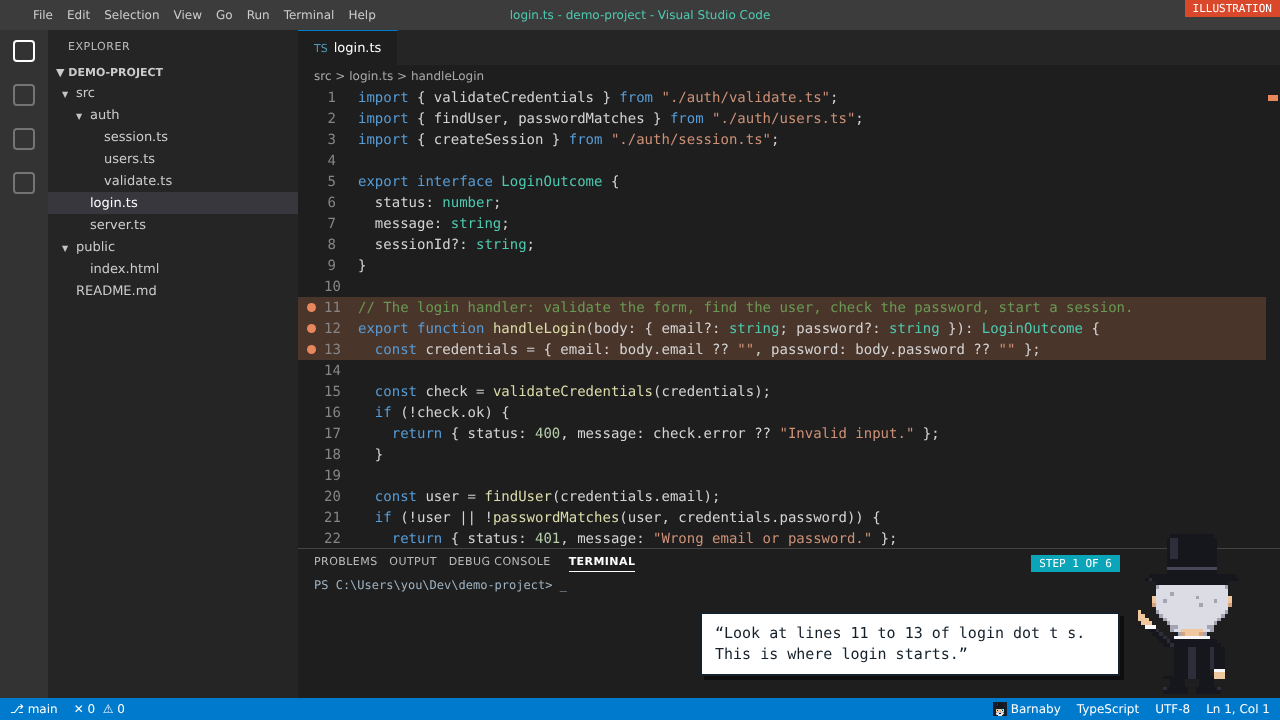
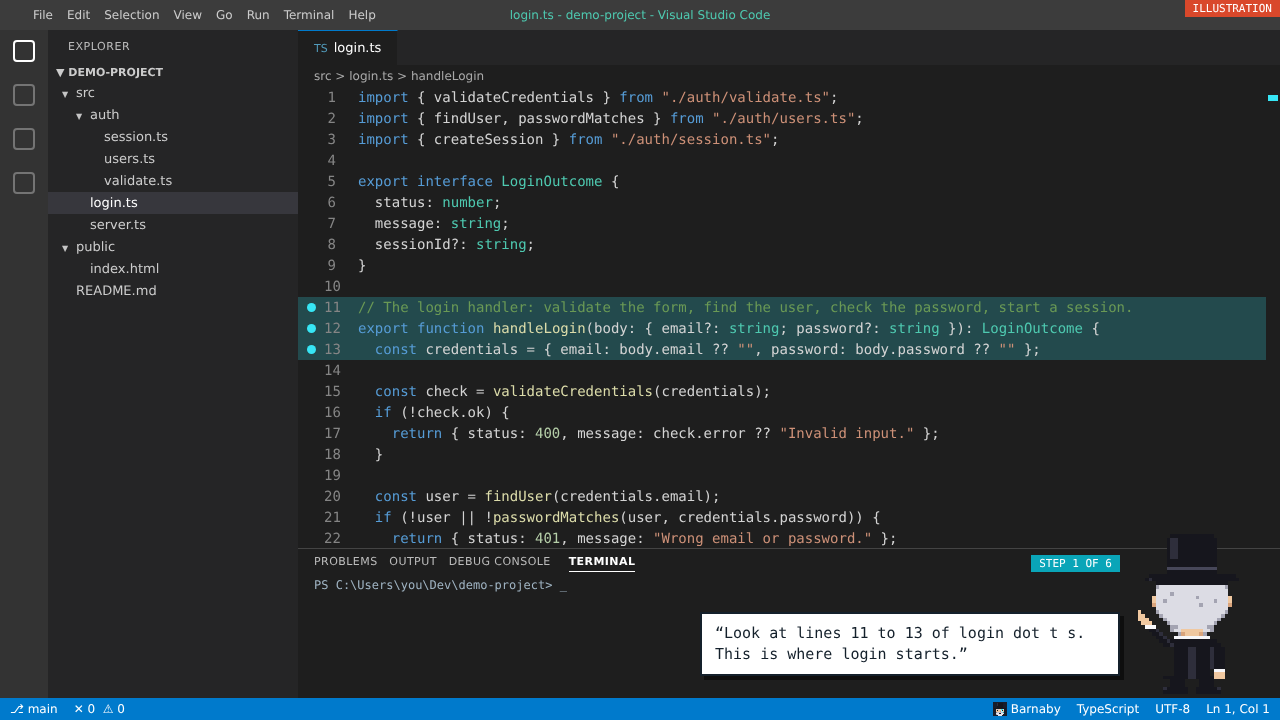
Default tour highlight colour: monocle blue (#37E6F5)
Claude-Session: https://claude.ai/code/session_014ib7gBEKB3AQtpFMrzXFWM

Changed region(s): [[0.2188, 0.3972, 1.0, 0.5194]]

diff --git a/docs/video/vscode-clone/vscode-clone.html b/docs/video/vscode-clone/vscode-clone.html
@@ -10,10 +10,10 @@
 .tabs{height:35px;background:#252526;display:flex}.tab{height:35px;line-height:35px;padding:0 16px;background:#2d2d2d;color:#969696;border-right:1px solid #252526;font-size:13px}.tab.on{background:#1e1e1e;color:#fff;border-top:1px solid #007acc;line-height:33px}.tab em{font-style:normal;color:#519aba;margin-right:6px;font-size:11px}
 .crumb{height:22px;line-height:22px;padding:0 16px;color:#a9a9a9;font-size:12px}
 .body{flex:1;position:relative;overflow:hidden;font-family:"DejaVu Sans Mono",Consolas,monospace;font-size:14px}
-.ln{height:21px;line-height:21px;display:flex;white-space:pre}.gut{width:26px;display:flex;align-items:center;justify-content:center}.dot{width:9px;height:9px;border-radius:50%;background:#E8875B}.num{width:34px;text-align:right;color:#858585;padding-right:22px}
+.ln{height:21px;line-height:21px;display:flex;white-space:pre}.gut{width:26px;display:flex;align-items:center;justify-content:center}.dot{width:9px;height:9px;border-radius:50%;background:#37E6F5}.num{width:34px;text-align:right;color:#858585;padding-right:22px}
 .c{color:#6a9955}.s{color:#ce9178}.n{color:#b5cea8}.k{color:#569cd6}.t{color:#4ec9b0}.f{color:#dcdcaa}
 .mini{position:absolute;right:14px;top:0;bottom:0;width:70px;background:#1e1e1e;opacity:.8}
-.ruler{position:absolute;right:0;top:0;bottom:0;width:14px;background:#1e1e1e}.rmark{position:absolute;right:2px;width:10px;background:#E8875B}
+.ruler{position:absolute;right:0;top:0;bottom:0;width:14px;background:#1e1e1e}.rmark{position:absolute;right:2px;width:10px;background:#37E6F5}
 .status{position:absolute;left:0;right:0;bottom:0;height:22px;background:#007acc;color:#fff;font-size:12px;display:flex;align-items:center;padding:0 10px;gap:16px}.status .sp{flex:1}.status img{width:14px;height:14px;image-rendering:pixelated;vertical-align:middle;margin-right:4px}
 .panel{height:150px;background:#1e1e1e;border-top:1px solid #444;position:relative;font:12px "DejaVu Sans Mono",monospace;color:#ccc}.panel .pt{padding:6px 16px;font-family:"DejaVu Sans",sans-serif;font-size:11px;color:#bbb;letter-spacing:.04em}.panel .pt b{color:#fff;border-bottom:1px solid #fff;padding-bottom:3px;margin-left:14px}.panel .pl{padding:4px 16px;color:#9fb3c2}.pet{position:absolute;right:30px;bottom:26px;width:700px;height:160px}.pet img{position:absolute;right:0;bottom:0;height:160px;image-rendering:pixelated}
 .bub{position:absolute;right:130px;bottom:18px;width:420px;background:#fff;color:#14202b;border:2px solid #14202b;padding:9px 13px;font:15px/1.4 "DejaVu Sans Mono",monospace;box-shadow:4px 4px 0 #0008}
@@ -28,7 +28,7 @@
 <div class="pet"><div class="step" id="step"></div><div class="bub" id="bub"></div><img src="../../../site/barnaby-back.svg"></div>
 <div class="status"><span>&#9095; main</span><span>&#10005; 0 &nbsp;&#9888; 0</span><div class="sp"></div><span><img src="../../../vscode-extension/icon.png">Barnaby</span><span>TypeScript</span><span>UTF-8</span><span>Ln 1, Col 1</span></div>
 <script>
-const D={"editors": {"login.ts": {"a": "<div class=\"ln\" style=\"\"><span class=\"gut\"></span><span class=\"num\">1</span><span class=\"code\"><span class=\"k\">import</span> { validateCredentials } <span class=\"k\">from</span> <span class=\"s\">&quot;./auth/validate.ts&quot;</span>;</span></div><div class=\"ln\" style=\"\"><span class=\"gut\"></span><span class=\"num\">2</span><span class=\"code\"><span class=\"k\">import</span> { findUser, passwordMatches } <span class=\"k\">from</span> <span class=\"s\">&quot;./auth/users.ts&quot;</span>;</span></div><div class=\"ln\" style=\"\"><span class=\"gut\"></span><span class=\"num\">3</span><span class=\"code\"><span class=\"k\">import</span> { createSession } <span class=\"k\">from</span> <span class=\"s\">&quot;./auth/session.ts&quot;</span>;</span></div><div class=\"ln\" style=\"\"><span class=\"gut\"></span><span class=\"num\">4</span><span class=\"code\">&nbsp;</span></div><div class=\"ln\" style=\"\"><span class=\"gut\"></span><span class=\"num\">5</span><span class=\"code\"><span class=\"k\">export</span> <span class=\"k\">interface</span> <span class=\"t\">LoginOutcome</span> {</span></div><div class=\"ln\" style=\"\"><span class=\"gut\"></span><span class=\"num\">6</span><span class=\"code\">  status: <span class=\"t\">number</span>;</span></div><div class=\"ln\" style=\"\"><span class=\"gut\"></span><span class=\"num\">7</span><span class=\"code\">  message: <span class=\"t\">string</span>;</span></div><div class=\"ln\" style=\"\"><span class=\"gut\"></span><span class=\"num\">8</span><span class=\"code\">  sessionId?: <span class=\"t\">string</span>;</span></div><div class=\"ln\" style=\"\"><span class=\"gut\"></span><span class=\"num\">9</span><span class=\"code\">}</span></div><div class=\"ln\" style=\"\"><span class=\"gut\"></span><span class=\"num\">10</span><span class=\"code\">&nbsp;</span></div><div class=\"ln\" style=\"background:rgba(232,135,91,0.22);\"><span class=\"gut\"><span class=\"dot\"></span></span><span class=\"num\">11</span><span class=\"code\"><span class=\"c\">// The login handler: validate the form, find the user, check the password, start a session.</span></span></div><div class=\"ln\" style=\"background:rgba(232,135,91,0.22);\"><span class=\"gut\"><span class=\"dot\"></span></span><span class=\"num\">12</span><span class=\"code\"><span class=\"k\">export</span> <span class=\"k\">function</span> <span class=\"f\">handleLogin</span>(body: { email?: <span class=\"t\">string</span>; password?: <span class=\"t\">string</span> }): <span class=\"t\">LoginOutcome</span> {</span></div><div class=\"ln\" style=\"background:rgba(232,135,91,0.22);\"><span class=\"gut\"><span class=\"dot\"></span></span><span class=\"num\">13</span><span class=\"code\">  <span class=\"k\">const</span> credentials = { email: body.email ?? <span class=\"s\">&quot;&quot;</span>, password: body.password ?? <span class=\"s\">&quot;&quot;</span> };</span></div><div class=\"ln\" style=\"\"><span class=\"gut\"></span><span class=\"num\">14</span><span class=\"code\">&nbsp;</span></div><div class=\"ln\" style=\"\"><span class=\"gut\"></span><span class=\"num\">15</span><span class=\"code\">  <span class=\"k\">const</span> check = <span class=\"f\">validateCredentials</span>(credentials);</span></div><div class=\"ln\" style=\"\"><span class=\"gut\"></span><span class=\"num\">16</span><span class=\"code\">  <span class=\"k\">if</span> (!check.ok) {</span></div><div class=\"ln\" style=\"\"><span class=\"gut\"></span><span class=\"num\">17</span><span class=\"code\">    <span class=\"k\">return</span> { status: <span class=\"n\">400</span>, message: check.error ?? <span class=\"s\">&quot;Invalid input.&quot;</span> };</span></div><div class=\"ln\" style=\"\"><span class=\"gut\"></span><span class=\"num\">18</span><span class=\"code\">  }</span></div><div class=\"ln\" style=\"\"><span class=\"gut\"></span><span class=\"num\">19</span><span class=\"code\">&nbsp;</span></div><div class=\"ln\" style=\"\"><span class=\"gut\"></span><span class=\"num\">20</span><span class=\"code\">  <span class=\"k\">const</span> user = <span class=\"f\">findUser</span>(credentials.email);</span></div><div class=\"ln\" style=\"\"><span class=\"gut\"></span><span class=\"num\">21</span><span class=\"code\">  <span class=\"k\">if</span> (!user || !<span class=\"f\">passwordMatches</span>(user, credentials.password)) {</span></div><div class=\"ln\" style=\"\"><span class=\"gut\"></span><span class=\"num\">22</span><span class=\"code\">    <span class=\"k\">return</span> { status: <span class=\"n\">401</span>, message: <span class=\"s\">&quot;Wrong email or password.&quot;</span> };</span></div><div class=\"ln\" style=\"\"><span class=\"gut\"></span><span class=\"num\">23</span><span class=\"code\">  }</span></div><div class=\"ln\" style=\"\"><span class=\"gut\"></span><span class=\"num\">24</span><span class=\"code\">&nbsp;</span></div><div class=\"ln\" style=\"\"><span class=\"gut\"></span><span class=\"num\">25</span><span class=\"code\">  <span class=\"k\">const</span> sessionId = <span class=\"f\">createSession</span>(user.email);</span></div><div class=\"ln\" style=\"\"><span class=\"gut\"></span><span class=\"num\">26</span><span class=\"code\">  <span class=\"k\">return</span> { status: <span class=\"n\">200</span>, message: <span class=\"s\">&quot;Welcome back!&quot;</span>, sessionId };</span></div><div class=\"ln\" style=\"\"><span class=\"gut\"></span><span class=\"num\">27</span><span class=\"code\">}</span></div>", "x": "<div class=\"ln\" style=\"\"><span class=\"gut\"></span><span class=\"num\">1</span><span class=\"code\"><span class=\"k\">import</span> { validateCredentials } <span class=\"k\">from</span> <span class=\"s\">&quot;./auth/validate.ts&quot;</span>;</span></div><div class=\"ln\" style=\"\"><span class=\"gut\"></span><span class=\"num\">2</span><span class=\"code\"><span class=\"k\">import</span> { findUser, passwordMatches } <span class=\"k\">from</span> <span class=\"s\">&quot;./auth/users.ts&quot;</span>;</span></div><div class=\"ln\" style=\"\"><span class=\"gut\"></span><span class=\"num\">3</span><span class=\"code\"><span class=\"k\">import</span> { createSession } <span class=\"k\">from</span> <span class=\"s\">&quot;./auth/session.ts&quot;</span>;</span></div><div class=\"ln\" style=\"\"><span class=\"gut\"></span><span class=\"num\">4</span><span class=\"code\">&nbsp;</span></div><div class=\"ln\" style=\"\"><span class=\"gut\"></span><span class=\"num\">5</span><span class=\"code\"><span class=\"k\">export</span> <span class=\"k\">interface</span> <span class=\"t\">LoginOutcome</span> {</span></div><div class=\"ln\" style=\"\"><span class=\"gut\"></span><span class=\"num\">6</span><span class=\"code\">  status: <span class=\"t\">number</span>;</span></div><div class=\"ln\" style=\"\"><span class=\"gut\"></span><span class=\"num\">7</span><span class=\"code\">  message: <span class=\"t\">string</span>;</span></div><div class=\"ln\" style=\"\"><span class=\"gut\"></span><span class=\"num\">8</span><span class=\"code\">  sessionId?: <span class=\"t\">string</span>;</span></div><div class=\"ln\" style=\"\"><span class=\"gut\"></span><span class=\"num\">9</span><span class=\"code\">}</span></div><div class=\"ln\" style=\"\"><span class=\"gut\"></span><span class=\"num\">10</span><span class=\"code\">&nbsp;</span></div><div class=\"ln\" style=\"\"><span class=\"gut\"></span><span class=\"num\">11</span><span class=\"code\"><span class=\"c\">// The login handler: validate the form, find the user, check the password, start a session.</span></span></div><div class=\"ln\" style=\"\"><span class=\"gut\"></span><span class=\"num\">12</span><span class=\"code\"><span class=\"k\">export</span> <span class=\"k\">function</span> <span class=\"f\">handleLogin</span>(body: { email?: <span class=\"t\">string</span>; password?: <span class=\"t\">string</span> }): <span class=\"t\">LoginOutcome</span> {</span></div><div class=\"ln\" style=\"\"><span class=\"gut\"></span><span class=\"num\">13</span><span class=\"code\">  <span class=\"k\">const</span> credentials = { email: body.email ?? <span class=\"s\">&quot;&quot;</span>, password: body.password ?? <span class=\"s\">&quot;&quot;</span> };</span></div><div class=\"ln\" style=\"\"><span class=\"gut\"></span><span class=\"num\">14</span><span class=\"code\">&nbsp;</span></div><div class=\"ln\" style=\"\"><span class=\"gut\"></span><span class=\"num\">15</span><span class=\"code\">  <span class=\"k\">const</span> check = <span class=\"f\">validateCredentials</span>(credentials);</span></div><div class=\"ln\" style=\"\"><span class=\"gut\"></span><span class=\"num\">16</span><span class=\"code\">  <span class=\"k\">if</span> (!check.ok) {</span></div><div class=\"ln\" style=\"\"><span class=\"gut\"></span><span class=\"num\">17</span><span class=\"code\">    <span class=\"k\">return</span> { status: <span class=\"n\">400</span>, message: check.error ?? <span class=\"s\">&quot;Invalid input.&quot;</span> };</span></div><div class=\"ln\" style=\"\"><span class=\"gut\"></span><span class=\"num\">18</span><span class=\"code\">  }</span></div><div class=\"ln\" style=\"\"><span class=\"gut\"></span><span class=\"num\">19</span><span class=\"code\">&nbsp;</span></div><div class=\"ln\" style=\"\"><span class=\"gut\"></span><span class=\"num\">20</span><span class=\"code\">  <span class=\"k\">const</span> user = <span class=\"f\">findUser</span>(credentials.email);</span></div><div class=\"ln\" style=\"\"><span class=\"gut\"></span><span class=\"num\">21</span><span class=\"code\">  <span class=\"k\">if</span> (!user || !<span class=\"f\">passwordMatches</span>(user, credentials.password)) {</span></div><div class=\"ln\" style=\"\"><span class=\"gut\"></span><span class=\"num\">22</span><span class=\"code\">    <span class=\"k\">return</span> { status: <span class=\"n\">401</span>, message: <span class=\"s\">&quot;Wrong email or password.&quot;</span> };</span></div><div class=\"ln\" style=\"\"><span class=\"gut\"></span><span class=\"num\">23</span><span class=\"code\">  }</span></div><div class=\"ln\" style=\"\"><span class=\"gut\"></span><span class=\"num\">24</span><span class=\"code\">&nbsp;</span></div><div class=\"ln\" style=\"\"><span class=\"gut\"></span><span class=\"num\">25</span><span class=\"code\">  <span class=\"k\">const</span> sessionId = <span class=\"f\">createSession</span>(user.email);</span></div><div class=\"ln\" style=\"\"><span class=\"gut\"></span><span class=\"num\">26</span><span class=\"code\">  <span class=\"k\">return</span> { status: <span class=\"n\">200</span>, message: <span class=\"s\">&quot;Welcome back!&quot;</span>, sessionId };</span></div><div class=\"ln\" style=\"\"><span class=\"gut\"></span><span class=\"num\">27</span><span class=\"code\">}</span></div>"}, "validate.ts": {"a": "<div class=\"ln\" style=\"\"><span class=\"gut\"></span><span class=\"num\">1</span><span class=\"code\"><span class=\"k\">export</span> <span class=\"k\">interface</span> <span class=\"t\">Credentials</span> {</span></div><div class=\"ln\" style=\"\"><span class=\"gut\"></span><span class=\"num\">2</span><span class=\"code\">  email: <span class=\"t\">string</span>;</span></div><div class=\"ln\" style=\"\"><span class=\"gut\"></span><span class=\"num\">3</span><span class=\"code\">  password: <span class=\"t\">string</span>;</span></div><div class=\"ln\" style=\"\"><span class=\"gut\"></span><span class=\"num\">4</span><span class=\"code\">}</span></div><div class=\"ln\" style=\"\"><span class=\"gut\"></span><span class=\"num\">5</span><span class=\"code\">&nbsp;</span></div><div class=\"ln\" style=\"\"><span class=\"gut\"></span><span class=\"num\">6</span><span class=\"code\"><span class=\"k\">export</span> <span class=\"k\">interface</span> <span class=\"t\">ValidationResult</span> {</span></div><div class=\"ln\" style=\"\"><span class=\"gut\"></span><span class=\"num\">7</span><span class=\"code\">  ok: <span class=\"t\">boolean</span>;</span></div><div class=\"ln\" style=\"\"><span class=\"gut\"></span><span class=\"num\">8</span><span class=\"code\">  error?: <span class=\"t\">string</span>;</span></div><div class=\"ln\" style=\"\"><span class=\"gut\"></span><span class=\"num\">9</span><span class=\"code\">}</span></div><div class=\"ln\" style=\"\"><span class=\"gut\"></span><span class=\"num\">10</span><span class=\"code\">&nbsp;</span></div><div class=\"ln\" style=\"\"><span class=\"gut\"></span><span class=\"num\">11</span><span class=\"code\"><span class=\"k\">const</span> EMAIL_PATTERN = <span class=\"s\">/^[^\\s@]+@[^\\s@]+\\.[^\\s@]+$/</span>;</span></div><div class=\"ln\" style=\"\"><span class=\"gut\"></span><span class=\"num\">12</span><span class=\"code\"><span class=\"k\">const</span> MIN_PASSWORD_LENGTH = <span class=\"n\">8</span>;</span></div><div class=\"ln\" style=\"\"><span class=\"gut\"></span><span class=\"num\">13</span><span class=\"code\">&nbsp;</span></div><div class=\"ln\" style=\"background:rgba(232,135,91,0.22);\"><span class=\"gut\"><span class=\"dot\"></span></span><span class=\"num\">14</span><span class=\"code\"><span class=\"c\">// Checks the shape of the email and password before we look anyone up.</span></span></div><div class=\"ln\" style=\"background:rgba(232,135,91,0.22);\"><span class=\"gut\"><span class=\"dot\"></span></span><span class=\"num\">15</span><span class=\"code\"><span class=\"k\">export</span> <span class=\"k\">function</span> <span class=\"f\">validateCredentials</span>(input: <span class=\"t\">Credentials</span>): <span class=\"t\">ValidationResult</span> {</span></div><div class=\"ln\" style=\"background:rgba(232,135,91,0.22);\"><span class=\"gut\"><span class=\"dot\"></span></span><span class=\"num\">16</span><span class=\"code\">  <span class=\"k\">if</span> (!EMAIL_PATTERN.<span class=\"f\">test</span>(input.email)) {</span></div><div class=\"ln\" style=\"background:rgba(232,135,91,0.22);\"><span class=\"gut\"><span class=\"dot\"></span></span><span class=\"num\">17</span><span class=\"code\">    <span class=\"k\">return</span> { ok: false, error: <span class=\"s\">&quot;That does not look like an email address.&quot;</span> };</span></div><div class=\"ln\" style=\"background:rgba(232,135,91,0.22);\"><span class=\"gut\"><span class=\"dot\"></span></span><span class=\"num\">18</span><span class=\"code\">  }</span></div><div class=\"ln\" style=\"\"><span class=\"gut\"></span><span class=\"num\">19</span><span class=\"code\">  <span class=\"k\">if</span> (input.password.length &lt; MIN_PASSWORD_LENGTH) {</span></div><div class=\"ln\" style=\"\"><span class=\"gut\"></span><span class=\"num\">20</span><span class=\"code\">    <span class=\"k\">return</span> { ok: false, error: <span class=\"s\">`Passwords have at least ${MIN_PASSWORD_LENGTH} characters.`</span> };</span></div><div class=\"ln\" style=\"\"><span class=\"gut\"></span><span class=\"num\">21</span><span class=\"code\">  }</span></div><div class=\"ln\" style=\"\"><span class=\"gut\"></span><span class=\"num\">22</span><span class=\"code\">  <span class=\"k\">return</span> { ok: true };</span></div><div class=\"ln\" style=\"\"><span class=\"gut\"></span><span class=\"num\">23</span><span class=\"code\">}</span></div>", "half": "<div class=\"ln\" style=\"\"><span class=\"gut\"></span><span class=\"num\">1</span><span class=\"code\"><span class=\"k\">export</span> <span class=\"k\">interface</span> <span class=\"t\">Credentials</span> {</span></div><div class=\"ln\" style=\"\"><span class=\"gut\"></span><span class=\"num\">2</span><span class=\"code\">  email: <span class=\"t\">string</span>;</span></div><div class=\"ln\" style=\"\"><span class=\"gut\"></span><span class=\"num\">3</span><span class=\"code\">  password: <span class=\"t\">string</span>;</span></div><div class=\"ln\" style=\"\"><span class=\"gut\"></span><span class=\"num\">4</span><span class=\"code\">}</span></div><div class=\"ln\" style=\"\"><span class=\"gut\"></span><span class=\"num\">5</span><span class=\"code\">&nbsp;</span></div><div class=\"ln\" style=\"\"><span class=\"gut\"></span><span class=\"num\">6</span><span class=\"code\"><span class=\"k\">export</span> <span class=\"k\">interface</span> <span class=\"t\">ValidationResult</span> {</span></div><div class=\"ln\" style=\"\"><span class=\"gut\"></span><span class=\"num\">7</span><span class=\"code\">  ok: <span class=\"t\">boolean</span>;</span></div><div class=\"ln\" style=\"\"><span class=\"gut\"></span><span class=\"num\">8</span><span class=\"code\">  error?: <span class=\"t\">string</span>;</span></div><div class=\"ln\" style=\"\"><span class=\"gut\"></span><span class=\"num\">9</span><span class=\"code\">}</span></div><div class=\"ln\" style=\"\"><span class=\"gut\"></span><span class=\"num\">10</span><span class=\"code\">&nbsp;</span></div><div class=\"ln\" style=\"\"><span class=\"gut\"></span><span class=\"num\">11</span><span class=\"code\"><span class=\"k\">const</span> EMAIL_PATTERN = <span class=\"s\">/^[^\\s@]+@[^\\s@]+\\.[^\\s@]+$/</span>;</span></div><div class=\"ln\" style=\"\"><span class=\"gut\"></span><span class=\"num\">12</span><span class=\"code\"><span class=\"k\">const</span> MIN_PASSWORD_LENGTH = <span class=\"n\">8</span>;</span></div><div class=\"ln\" style=\"\"><span class=\"gut\"></span><span class=\"num\">13</span><span class=\"code\">&nbsp;</span></div><div class=\"ln\" style=\"background:rgba(232,135,91,0.08);\"><span class=\"gut\"></span><span class=\"num\">14</span><span class=\"code\"><span class=\"c\">// Checks the shape of the email and password before we look anyone up.</span></span></div><div class=\"ln\" style=\"background:rgba(232,135,91,0.08);\"><span class=\"gut\"></span><span class=\"num\">15</span><span class=\"code\"><span class=\"k\">export</span> <span class=\"k\">function</span> <span class=\"f\">validateCredentials</span>(input: <span class=\"t\">Credentials</span>): <span class=\"t\">ValidationResult</span> {</span></div><div class=\"ln\" style=\"background:rgba(232,135,91,0.08);\"><span class=\"gut\"></span><span class=\"num\">16</span><span class=\"code\">  <span class=\"k\">if</span> (!EMAIL_PATTERN.<span class=\"f\">test</span>(input.email)) {</span></div><div class=\"ln\" style=\"background:rgba(232,135,91,0.08);\"><span class=\"gut\"></span><span class=\"num\">17</span><span class=\"code\">    <span class=\"k\">return</span> { ok: false, error: <span class=\"s\">&quot;That does not look like an email address.&quot;</span> };</span></div><div class=\"ln\" style=\"background:rgba(232,135,91,0.08);\"><span class=\"gut\"></span><span class=\"num\">18</span><span class=\"code\">  }</span></div><div class=\"ln\" style=\"\"><span class=\"gut\"></span><span class=\"num\">19</span><span class=\"code\">  <span class=\"k\">if</span> (input.password.length &lt; MIN_PASSWORD_LENGTH) {</span></div><div class=\"ln\" style=\"\"><span class=\"gut\"></span><span class=\"num\">20</span><span class=\"code\">    <span class=\"k\">return</span> { ok: false, error: <span class=\"s\">`Passwords have at least ${MIN_PASSWORD_LENGTH} characters.`</span> };</span></div><div class=\"ln\" style=\"\"><span class=\"gut\"></span><span class=\"num\">21</span><span class=\"code\">  }</span></div><div class=\"ln\" style=\"\"><span class=\"gut\"></span><span class=\"num\">22</span><span class=\"code\">  <span class=\"k\">return</span> { ok: true };</span></div><div class=\"ln\" style=\"\"><span class=\"gut\"></span><span class=\"num\">23</span><span class=\"code\">}</span></div>"}}, "trees": {"login.ts": "<div class=\"ex \" style=\"padding-left:14px\"><span class=\"chev\">&#9660;</span>src</div><div class=\"ex \" style=\"padding-left:28px\"><span class=\"chev\">&#9660;</span>auth</div><div class=\"ex \" style=\"padding-left:42px\"><span class=\"chev\"></span>session.ts</div><div class=\"ex \" style=\"padding-left:42px\"><span class=\"chev\"></span>users.ts</div><div class=\"ex \" style=\"padding-left:42px\"><span class=\"chev\"></span>validate.ts</div><div class=\"ex sel\" style=\"padding-left:28px\"><span class=\"chev\"></span>login.ts</div><div class=\"ex \" style=\"padding-left:28px\"><span class=\"chev\"></span>server.ts</div><div class=\"ex \" style=\"padding-left:14px\"><span class=\"chev\">&#9660;</span>public</div><div class=\"ex \" style=\"padding-left:28px\"><span class=\"chev\"></span>index.html</div><div class=\"ex \" style=\"padding-left:14px\"><span class=\"chev\"></span>README.md</div>", "validate.ts": "<div class=\"ex \" style=\"padding-left:14px\"><span class=\"chev\">&#9660;</span>src</div><div class=\"ex \" style=\"padding-left:28px\"><span class=\"chev\">&#9660;</span>auth</div><div class=\"ex \" style=\"padding-left:42px\"><span class=\"chev\"></span>session.ts</div><div class=\"ex \" style=\"padding-left:42px\"><span class=\"chev\"></span>users.ts</div><div class=\"ex sel\" style=\"padding-left:42px\"><span class=\"chev\"></span>validate.ts</div><div class=\"ex \" style=\"padding-left:28px\"><span class=\"chev\"></span>login.ts</div><div class=\"ex \" style=\"padding-left:28px\"><span class=\"chev\"></span>server.ts</div><div class=\"ex \" style=\"padding-left:14px\"><span class=\"chev\">&#9660;</span>public</div><div class=\"ex \" style=\"padding-left:28px\"><span class=\"chev\"></span>index.html</div><div class=\"ex \" style=\"padding-left:14px\"><span class=\"chev\"></span>README.md</div>"}};
+const D={"editors": {"login.ts": {"a": "<div class=\"ln\" style=\"\"><span class=\"gut\"></span><span class=\"num\">1</span><span class=\"code\"><span class=\"k\">import</span> { validateCredentials } <span class=\"k\">from</span> <span class=\"s\">&quot;./auth/validate.ts&quot;</span>;</span></div><div class=\"ln\" style=\"\"><span class=\"gut\"></span><span class=\"num\">2</span><span class=\"code\"><span class=\"k\">import</span> { findUser, passwordMatches } <span class=\"k\">from</span> <span class=\"s\">&quot;./auth/users.ts&quot;</span>;</span></div><div class=\"ln\" style=\"\"><span class=\"gut\"></span><span class=\"num\">3</span><span class=\"code\"><span class=\"k\">import</span> { createSession } <span class=\"k\">from</span> <span class=\"s\">&quot;./auth/session.ts&quot;</span>;</span></div><div class=\"ln\" style=\"\"><span class=\"gut\"></span><span class=\"num\">4</span><span class=\"code\">&nbsp;</span></div><div class=\"ln\" style=\"\"><span class=\"gut\"></span><span class=\"num\">5</span><span class=\"code\"><span class=\"k\">export</span> <span class=\"k\">interface</span> <span class=\"t\">LoginOutcome</span> {</span></div><div class=\"ln\" style=\"\"><span class=\"gut\"></span><span class=\"num\">6</span><span class=\"code\">  status: <span class=\"t\">number</span>;</span></div><div class=\"ln\" style=\"\"><span class=\"gut\"></span><span class=\"num\">7</span><span class=\"code\">  message: <span class=\"t\">string</span>;</span></div><div class=\"ln\" style=\"\"><span class=\"gut\"></span><span class=\"num\">8</span><span class=\"code\">  sessionId?: <span class=\"t\">string</span>;</span></div><div class=\"ln\" style=\"\"><span class=\"gut\"></span><span class=\"num\">9</span><span class=\"code\">}</span></div><div class=\"ln\" style=\"\"><span class=\"gut\"></span><span class=\"num\">10</span><span class=\"code\">&nbsp;</span></div><div class=\"ln\" style=\"background:rgba(55,230,245,0.22);\"><span class=\"gut\"><span class=\"dot\"></span></span><span class=\"num\">11</span><span class=\"code\"><span class=\"c\">// The login handler: validate the form, find the user, check the password, start a session.</span></span></div><div class=\"ln\" style=\"background:rgba(55,230,245,0.22);\"><span class=\"gut\"><span class=\"dot\"></span></span><span class=\"num\">12</span><span class=\"code\"><span class=\"k\">export</span> <span class=\"k\">function</span> <span class=\"f\">handleLogin</span>(body: { email?: <span class=\"t\">string</span>; password?: <span class=\"t\">string</span> }): <span class=\"t\">LoginOutcome</span> {</span></div><div class=\"ln\" style=\"background:rgba(55,230,245,0.22);\"><span class=\"gut\"><span class=\"dot\"></span></span><span class=\"num\">13</span><span class=\"code\">  <span class=\"k\">const</span> credentials = { email: body.email ?? <span class=\"s\">&quot;&quot;</span>, password: body.password ?? <span class=\"s\">&quot;&quot;</span> };</span></div><div class=\"ln\" style=\"\"><span class=\"gut\"></span><span class=\"num\">14</span><span class=\"code\">&nbsp;</span></div><div class=\"ln\" style=\"\"><span class=\"gut\"></span><span class=\"num\">15</span><span class=\"code\">  <span class=\"k\">const</span> check = <span class=\"f\">validateCredentials</span>(credentials);</span></div><div class=\"ln\" style=\"\"><span class=\"gut\"></span><span class=\"num\">16</span><span class=\"code\">  <span class=\"k\">if</span> (!check.ok) {</span></div><div class=\"ln\" style=\"\"><span class=\"gut\"></span><span class=\"num\">17</span><span class=\"code\">    <span class=\"k\">return</span> { status: <span class=\"n\">400</span>, message: check.error ?? <span class=\"s\">&quot;Invalid input.&quot;</span> };</span></div><div class=\"ln\" style=\"\"><span class=\"gut\"></span><span class=\"num\">18</span><span class=\"code\">  }</span></div><div class=\"ln\" style=\"\"><span class=\"gut\"></span><span class=\"num\">19</span><span class=\"code\">&nbsp;</span></div><div class=\"ln\" style=\"\"><span class=\"gut\"></span><span class=\"num\">20</span><span class=\"code\">  <span class=\"k\">const</span> user = <span class=\"f\">findUser</span>(credentials.email);</span></div><div class=\"ln\" style=\"\"><span class=\"gut\"></span><span class=\"num\">21</span><span class=\"code\">  <span class=\"k\">if</span> (!user || !<span class=\"f\">passwordMatches</span>(user, credentials.password)) {</span></div><div class=\"ln\" style=\"\"><span class=\"gut\"></span><span class=\"num\">22</span><span class=\"code\">    <span class=\"k\">return</span> { status: <span class=\"n\">401</span>, message: <span class=\"s\">&quot;Wrong email or password.&quot;</span> };</span></div><div class=\"ln\" style=\"\"><span class=\"gut\"></span><span class=\"num\">23</span><span class=\"code\">  }</span></div><div class=\"ln\" style=\"\"><span class=\"gut\"></span><span class=\"num\">24</span><span class=\"code\">&nbsp;</span></div><div class=\"ln\" style=\"\"><span class=\"gut\"></span><span class=\"num\">25</span><span class=\"code\">  <span class=\"k\">const</span> sessionId = <span class=\"f\">createSession</span>(user.email);</span></div><div class=\"ln\" style=\"\"><span class=\"gut\"></span><span class=\"num\">26</span><span class=\"code\">  <span class=\"k\">return</span> { status: <span class=\"n\">200</span>, message: <span class=\"s\">&quot;Welcome back!&quot;</span>, sessionId };</span></div><div class=\"ln\" style=\"\"><span class=\"gut\"></span><span class=\"num\">27</span><span class=\"code\">}</span></div>", "x": "<div class=\"ln\" style=\"\"><span class=\"gut\"></span><span class=\"num\">1</span><span class=\"code\"><span class=\"k\">import</span> { validateCredentials } <span class=\"k\">from</span> <span class=\"s\">&quot;./auth/validate.ts&quot;</span>;</span></div><div class=\"ln\" style=\"\"><span class=\"gut\"></span><span class=\"num\">2</span><span class=\"code\"><span class=\"k\">import</span> { findUser, passwordMatches } <span class=\"k\">from</span> <span class=\"s\">&quot;./auth/users.ts&quot;</span>;</span></div><div class=\"ln\" style=\"\"><span class=\"gut\"></span><span class=\"num\">3</span><span class=\"code\"><span class=\"k\">import</span> { createSession } <span class=\"k\">from</span> <span class=\"s\">&quot;./auth/session.ts&quot;</span>;</span></div><div class=\"ln\" style=\"\"><span class=\"gut\"></span><span class=\"num\">4</span><span class=\"code\">&nbsp;</span></div><div class=\"ln\" style=\"\"><span class=\"gut\"></span><span class=\"num\">5</span><span class=\"code\"><span class=\"k\">export</span> <span class=\"k\">interface</span> <span class=\"t\">LoginOutcome</span> {</span></div><div class=\"ln\" style=\"\"><span class=\"gut\"></span><span class=\"num\">6</span><span class=\"code\">  status: <span class=\"t\">number</span>;</span></div><div class=\"ln\" style=\"\"><span class=\"gut\"></span><span class=\"num\">7</span><span class=\"code\">  message: <span class=\"t\">string</span>;</span></div><div class=\"ln\" style=\"\"><span class=\"gut\"></span><span class=\"num\">8</span><span class=\"code\">  sessionId?: <span class=\"t\">string</span>;</span></div><div class=\"ln\" style=\"\"><span class=\"gut\"></span><span class=\"num\">9</span><span class=\"code\">}</span></div><div class=\"ln\" style=\"\"><span class=\"gut\"></span><span class=\"num\">10</span><span class=\"code\">&nbsp;</span></div><div class=\"ln\" style=\"\"><span class=\"gut\"></span><span class=\"num\">11</span><span class=\"code\"><span class=\"c\">// The login handler: validate the form, find the user, check the password, start a session.</span></span></div><div class=\"ln\" style=\"\"><span class=\"gut\"></span><span class=\"num\">12</span><span class=\"code\"><span class=\"k\">export</span> <span class=\"k\">function</span> <span class=\"f\">handleLogin</span>(body: { email?: <span class=\"t\">string</span>; password?: <span class=\"t\">string</span> }): <span class=\"t\">LoginOutcome</span> {</span></div><div class=\"ln\" style=\"\"><span class=\"gut\"></span><span class=\"num\">13</span><span class=\"code\">  <span class=\"k\">const</span> credentials = { email: body.email ?? <span class=\"s\">&quot;&quot;</span>, password: body.password ?? <span class=\"s\">&quot;&quot;</span> };</span></div><div class=\"ln\" style=\"\"><span class=\"gut\"></span><span class=\"num\">14</span><span class=\"code\">&nbsp;</span></div><div class=\"ln\" style=\"\"><span class=\"gut\"></span><span class=\"num\">15</span><span class=\"code\">  <span class=\"k\">const</span> check = <span class=\"f\">validateCredentials</span>(credentials);</span></div><div class=\"ln\" style=\"\"><span class=\"gut\"></span><span class=\"num\">16</span><span class=\"code\">  <span class=\"k\">if</span> (!check.ok) {</span></div><div class=\"ln\" style=\"\"><span class=\"gut\"></span><span class=\"num\">17</span><span class=\"code\">    <span class=\"k\">return</span> { status: <span class=\"n\">400</span>, message: check.error ?? <span class=\"s\">&quot;Invalid input.&quot;</span> };</span></div><div class=\"ln\" style=\"\"><span class=\"gut\"></span><span class=\"num\">18</span><span class=\"code\">  }</span></div><div class=\"ln\" style=\"\"><span class=\"gut\"></span><span class=\"num\">19</span><span class=\"code\">&nbsp;</span></div><div class=\"ln\" style=\"\"><span class=\"gut\"></span><span class=\"num\">20</span><span class=\"code\">  <span class=\"k\">const</span> user = <span class=\"f\">findUser</span>(credentials.email);</span></div><div class=\"ln\" style=\"\"><span class=\"gut\"></span><span class=\"num\">21</span><span class=\"code\">  <span class=\"k\">if</span> (!user || !<span class=\"f\">passwordMatches</span>(user, credentials.password)) {</span></div><div class=\"ln\" style=\"\"><span class=\"gut\"></span><span class=\"num\">22</span><span class=\"code\">    <span class=\"k\">return</span> { status: <span class=\"n\">401</span>, message: <span class=\"s\">&quot;Wrong email or password.&quot;</span> };</span></div><div class=\"ln\" style=\"\"><span class=\"gut\"></span><span class=\"num\">23</span><span class=\"code\">  }</span></div><div class=\"ln\" style=\"\"><span class=\"gut\"></span><span class=\"num\">24</span><span class=\"code\">&nbsp;</span></div><div class=\"ln\" style=\"\"><span class=\"gut\"></span><span class=\"num\">25</span><span class=\"code\">  <span class=\"k\">const</span> sessionId = <span class=\"f\">createSession</span>(user.email);</span></div><div class=\"ln\" style=\"\"><span class=\"gut\"></span><span class=\"num\">26</span><span class=\"code\">  <span class=\"k\">return</span> { status: <span class=\"n\">200</span>, message: <span class=\"s\">&quot;Welcome back!&quot;</span>, sessionId };</span></div><div class=\"ln\" style=\"\"><span class=\"gut\"></span><span class=\"num\">27</span><span class=\"code\">}</span></div>"}, "validate.ts": {"a": "<div class=\"ln\" style=\"\"><span class=\"gut\"></span><span class=\"num\">1</span><span class=\"code\"><span class=\"k\">export</span> <span class=\"k\">interface</span> <span class=\"t\">Credentials</span> {</span></div><div class=\"ln\" style=\"\"><span class=\"gut\"></span><span class=\"num\">2</span><span class=\"code\">  email: <span class=\"t\">string</span>;</span></div><div class=\"ln\" style=\"\"><span class=\"gut\"></span><span class=\"num\">3</span><span class=\"code\">  password: <span class=\"t\">string</span>;</span></div><div class=\"ln\" style=\"\"><span class=\"gut\"></span><span class=\"num\">4</span><span class=\"code\">}</span></div><div class=\"ln\" style=\"\"><span class=\"gut\"></span><span class=\"num\">5</span><span class=\"code\">&nbsp;</span></div><div class=\"ln\" style=\"\"><span class=\"gut\"></span><span class=\"num\">6</span><span class=\"code\"><span class=\"k\">export</span> <span class=\"k\">interface</span> <span class=\"t\">ValidationResult</span> {</span></div><div class=\"ln\" style=\"\"><span class=\"gut\"></span><span class=\"num\">7</span><span class=\"code\">  ok: <span class=\"t\">boolean</span>;</span></div><div class=\"ln\" style=\"\"><span class=\"gut\"></span><span class=\"num\">8</span><span class=\"code\">  error?: <span class=\"t\">string</span>;</span></div><div class=\"ln\" style=\"\"><span class=\"gut\"></span><span class=\"num\">9</span><span class=\"code\">}</span></div><div class=\"ln\" style=\"\"><span class=\"gut\"></span><span class=\"num\">10</span><span class=\"code\">&nbsp;</span></div><div class=\"ln\" style=\"\"><span class=\"gut\"></span><span class=\"num\">11</span><span class=\"code\"><span class=\"k\">const</span> EMAIL_PATTERN = <span class=\"s\">/^[^\\s@]+@[^\\s@]+\\.[^\\s@]+$/</span>;</span></div><div class=\"ln\" style=\"\"><span class=\"gut\"></span><span class=\"num\">12</span><span class=\"code\"><span class=\"k\">const</span> MIN_PASSWORD_LENGTH = <span class=\"n\">8</span>;</span></div><div class=\"ln\" style=\"\"><span class=\"gut\"></span><span class=\"num\">13</span><span class=\"code\">&nbsp;</span></div><div class=\"ln\" style=\"background:rgba(55,230,245,0.22);\"><span class=\"gut\"><span class=\"dot\"></span></span><span class=\"num\">14</span><span class=\"code\"><span class=\"c\">// Checks the shape of the email and password before we look anyone up.</span></span></div><div class=\"ln\" style=\"background:rgba(55,230,245,0.22);\"><span class=\"gut\"><span class=\"dot\"></span></span><span class=\"num\">15</span><span class=\"code\"><span class=\"k\">export</span> <span class=\"k\">function</span> <span class=\"f\">validateCredentials</span>(input: <span class=\"t\">Credentials</span>): <span class=\"t\">ValidationResult</span> {</span></div><div class=\"ln\" style=\"background:rgba(55,230,245,0.22);\"><span class=\"gut\"><span class=\"dot\"></span></span><span class=\"num\">16</span><span class=\"code\">  <span class=\"k\">if</span> (!EMAIL_PATTERN.<span class=\"f\">test</span>(input.email)) {</span></div><div class=\"ln\" style=\"background:rgba(55,230,245,0.22);\"><span class=\"gut\"><span class=\"dot\"></span></span><span class=\"num\">17</span><span class=\"code\">    <span class=\"k\">return</span> { ok: false, error: <span class=\"s\">&quot;That does not look like an email address.&quot;</span> };</span></div><div class=\"ln\" style=\"background:rgba(55,230,245,0.22);\"><span class=\"gut\"><span class=\"dot\"></span></span><span class=\"num\">18</span><span class=\"code\">  }</span></div><div class=\"ln\" style=\"\"><span class=\"gut\"></span><span class=\"num\">19</span><span class=\"code\">  <span class=\"k\">if</span> (input.password.length &lt; MIN_PASSWORD_LENGTH) {</span></div><div class=\"ln\" style=\"\"><span class=\"gut\"></span><span class=\"num\">20</span><span class=\"code\">    <span class=\"k\">return</span> { ok: false, error: <span class=\"s\">`Passwords have at least ${MIN_PASSWORD_LENGTH} characters.`</span> };</span></div><div class=\"ln\" style=\"\"><span class=\"gut\"></span><span class=\"num\">21</span><span class=\"code\">  }</span></div><div class=\"ln\" style=\"\"><span class=\"gut\"></span><span class=\"num\">22</span><span class=\"code\">  <span class=\"k\">return</span> { ok: true };</span></div><div class=\"ln\" style=\"\"><span class=\"gut\"></span><span class=\"num\">23</span><span class=\"code\">}</span></div>", "half": "<div class=\"ln\" style=\"\"><span class=\"gut\"></span><span class=\"num\">1</span><span class=\"code\"><span class=\"k\">export</span> <span class=\"k\">interface</span> <span class=\"t\">Credentials</span> {</span></div><div class=\"ln\" style=\"\"><span class=\"gut\"></span><span class=\"num\">2</span><span class=\"code\">  email: <span class=\"t\">string</span>;</span></div><div class=\"ln\" style=\"\"><span class=\"gut\"></span><span class=\"num\">3</span><span class=\"code\">  password: <span class=\"t\">string</span>;</span></div><div class=\"ln\" style=\"\"><span class=\"gut\"></span><span class=\"num\">4</span><span class=\"code\">}</span></div><div class=\"ln\" style=\"\"><span class=\"gut\"></span><span class=\"num\">5</span><span class=\"code\">&nbsp;</span></div><div class=\"ln\" style=\"\"><span class=\"gut\"></span><span class=\"num\">6</span><span class=\"code\"><span class=\"k\">export</span> <span class=\"k\">interface</span> <span class=\"t\">ValidationResult</span> {</span></div><div class=\"ln\" style=\"\"><span class=\"gut\"></span><span class=\"num\">7</span><span class=\"code\">  ok: <span class=\"t\">boolean</span>;</span></div><div class=\"ln\" style=\"\"><span class=\"gut\"></span><span class=\"num\">8</span><span class=\"code\">  error?: <span class=\"t\">string</span>;</span></div><div class=\"ln\" style=\"\"><span class=\"gut\"></span><span class=\"num\">9</span><span class=\"code\">}</span></div><div class=\"ln\" style=\"\"><span class=\"gut\"></span><span class=\"num\">10</span><span class=\"code\">&nbsp;</span></div><div class=\"ln\" style=\"\"><span class=\"gut\"></span><span class=\"num\">11</span><span class=\"code\"><span class=\"k\">const</span> EMAIL_PATTERN = <span class=\"s\">/^[^\\s@]+@[^\\s@]+\\.[^\\s@]+$/</span>;</span></div><div class=\"ln\" style=\"\"><span class=\"gut\"></span><span class=\"num\">12</span><span class=\"code\"><span class=\"k\">const</span> MIN_PASSWORD_LENGTH = <span class=\"n\">8</span>;</span></div><div class=\"ln\" style=\"\"><span class=\"gut\"></span><span class=\"num\">13</span><span class=\"code\">&nbsp;</span></div><div class=\"ln\" style=\"background:rgba(55,230,245,0.08);\"><span class=\"gut\"></span><span class=\"num\">14</span><span class=\"code\"><span class=\"c\">// Checks the shape of the email and password before we look anyone up.</span></span></div><div class=\"ln\" style=\"background:rgba(55,230,245,0.08);\"><span class=\"gut\"></span><span class=\"num\">15</span><span class=\"code\"><span class=\"k\">export</span> <span class=\"k\">function</span> <span class=\"f\">validateCredentials</span>(input: <span class=\"t\">Credentials</span>): <span class=\"t\">ValidationResult</span> {</span></div><div class=\"ln\" style=\"background:rgba(55,230,245,0.08);\"><span class=\"gut\"></span><span class=\"num\">16</span><span class=\"code\">  <span class=\"k\">if</span> (!EMAIL_PATTERN.<span class=\"f\">test</span>(input.email)) {</span></div><div class=\"ln\" style=\"background:rgba(55,230,245,0.08);\"><span class=\"gut\"></span><span class=\"num\">17</span><span class=\"code\">    <span class=\"k\">return</span> { ok: false, error: <span class=\"s\">&quot;That does not look like an email address.&quot;</span> };</span></div><div class=\"ln\" style=\"background:rgba(55,230,245,0.08);\"><span class=\"gut\"></span><span class=\"num\">18</span><span class=\"code\">  }</span></div><div class=\"ln\" style=\"\"><span class=\"gut\"></span><span class=\"num\">19</span><span class=\"code\">  <span class=\"k\">if</span> (input.password.length &lt; MIN_PASSWORD_LENGTH) {</span></div><div class=\"ln\" style=\"\"><span class=\"gut\"></span><span class=\"num\">20</span><span class=\"code\">    <span class=\"k\">return</span> { ok: false, error: <span class=\"s\">`Passwords have at least ${MIN_PASSWORD_LENGTH} characters.`</span> };</span></div><div class=\"ln\" style=\"\"><span class=\"gut\"></span><span class=\"num\">21</span><span class=\"code\">  }</span></div><div class=\"ln\" style=\"\"><span class=\"gut\"></span><span class=\"num\">22</span><span class=\"code\">  <span class=\"k\">return</span> { ok: true };</span></div><div class=\"ln\" style=\"\"><span class=\"gut\"></span><span class=\"num\">23</span><span class=\"code\">}</span></div>"}}, "trees": {"login.ts": "<div class=\"ex \" style=\"padding-left:14px\"><span class=\"chev\">&#9660;</span>src</div><div class=\"ex \" style=\"padding-left:28px\"><span class=\"chev\">&#9660;</span>auth</div><div class=\"ex \" style=\"padding-left:42px\"><span class=\"chev\"></span>session.ts</div><div class=\"ex \" style=\"padding-left:42px\"><span class=\"chev\"></span>users.ts</div><div class=\"ex \" style=\"padding-left:42px\"><span class=\"chev\"></span>validate.ts</div><div class=\"ex sel\" style=\"padding-left:28px\"><span class=\"chev\"></span>login.ts</div><div class=\"ex \" style=\"padding-left:28px\"><span class=\"chev\"></span>server.ts</div><div class=\"ex \" style=\"padding-left:14px\"><span class=\"chev\">&#9660;</span>public</div><div class=\"ex \" style=\"padding-left:28px\"><span class=\"chev\"></span>index.html</div><div class=\"ex \" style=\"padding-left:14px\"><span class=\"chev\"></span>README.md</div>", "validate.ts": "<div class=\"ex \" style=\"padding-left:14px\"><span class=\"chev\">&#9660;</span>src</div><div class=\"ex \" style=\"padding-left:28px\"><span class=\"chev\">&#9660;</span>auth</div><div class=\"ex \" style=\"padding-left:42px\"><span class=\"chev\"></span>session.ts</div><div class=\"ex \" style=\"padding-left:42px\"><span class=\"chev\"></span>users.ts</div><div class=\"ex sel\" style=\"padding-left:42px\"><span class=\"chev\"></span>validate.ts</div><div class=\"ex \" style=\"padding-left:28px\"><span class=\"chev\"></span>login.ts</div><div class=\"ex \" style=\"padding-left:28px\"><span class=\"chev\"></span>server.ts</div><div class=\"ex \" style=\"padding-left:14px\"><span class=\"chev\">&#9660;</span>public</div><div class=\"ex \" style=\"padding-left:28px\"><span class=\"chev\"></span>index.html</div><div class=\"ex \" style=\"padding-left:14px\"><span class=\"chev\"></span>README.md</div>"}};
 function show(file,variant,tabs,title,crumb,step,say,rulerLines){
  document.getElementById('tree').innerHTML=D.trees[file];
  document.getElementById('body').innerHTML=D.editors[file][variant]+'<div class="ruler">'+rulerLines.map(([t,h])=>`<div class="rmark" style="top:${t}px;height:${h}px"></div>`).join('')+'</div>';

diff --git a/src/main.ts b/src/main.ts
@@ -44,8 +44,8 @@ async function main() {
   }
 
   const agentKind = "claude-code";
-  const petCfg = config.pets[agentKind] || { colour: "#E8875B", x: null, y: null };
-  const petColor = petCfg.colour || "#E8875B";
+  const petCfg = config.pets[agentKind] || { colour: "#37E6F5", x: null, y: null };
+  const petColor = petCfg.colour || "#37E6F5";
 
   // Default placement: bottom right, standing on the floor (the top of the taskbar).
   // A saved position is kept, but never below the floor.

diff --git a/src-tauri/src/overlay/mod.rs b/src-tauri/src/overlay/mod.rs
@@ -31,7 +31,7 @@ pub fn get_config() -> Result<config::AppConfig, String> {
 pub fn save_pet_position(agent_kind: String, x: i32, y: i32) -> Result<(), String> {
     let mut cfg = config::load_or_create_config().map_err(|e| e.to_string())?;
     let pet = cfg.pets.entry(agent_kind).or_insert_with(|| config::PetConfig {
-        colour: "#E8875B".to_string(),
+        colour: "#37E6F5".to_string(),
         x: None,
         y: None,
     });

diff --git a/src-tauri/src/server.rs b/src-tauri/src/server.rs
@@ -63,7 +63,7 @@ pub fn pet_colour(kind: &str) -> String {
     crate::config::load_or_create_config()
         .ok()
         .and_then(|cfg| cfg.pets.get(kind).map(|p| p.colour.clone()))
-        .unwrap_or_else(|| "#E8875B".into())
+        .unwrap_or_else(|| "#37E6F5".into())
 }
 
 /// Speak through the queue with the voice configured for this agent kind.
